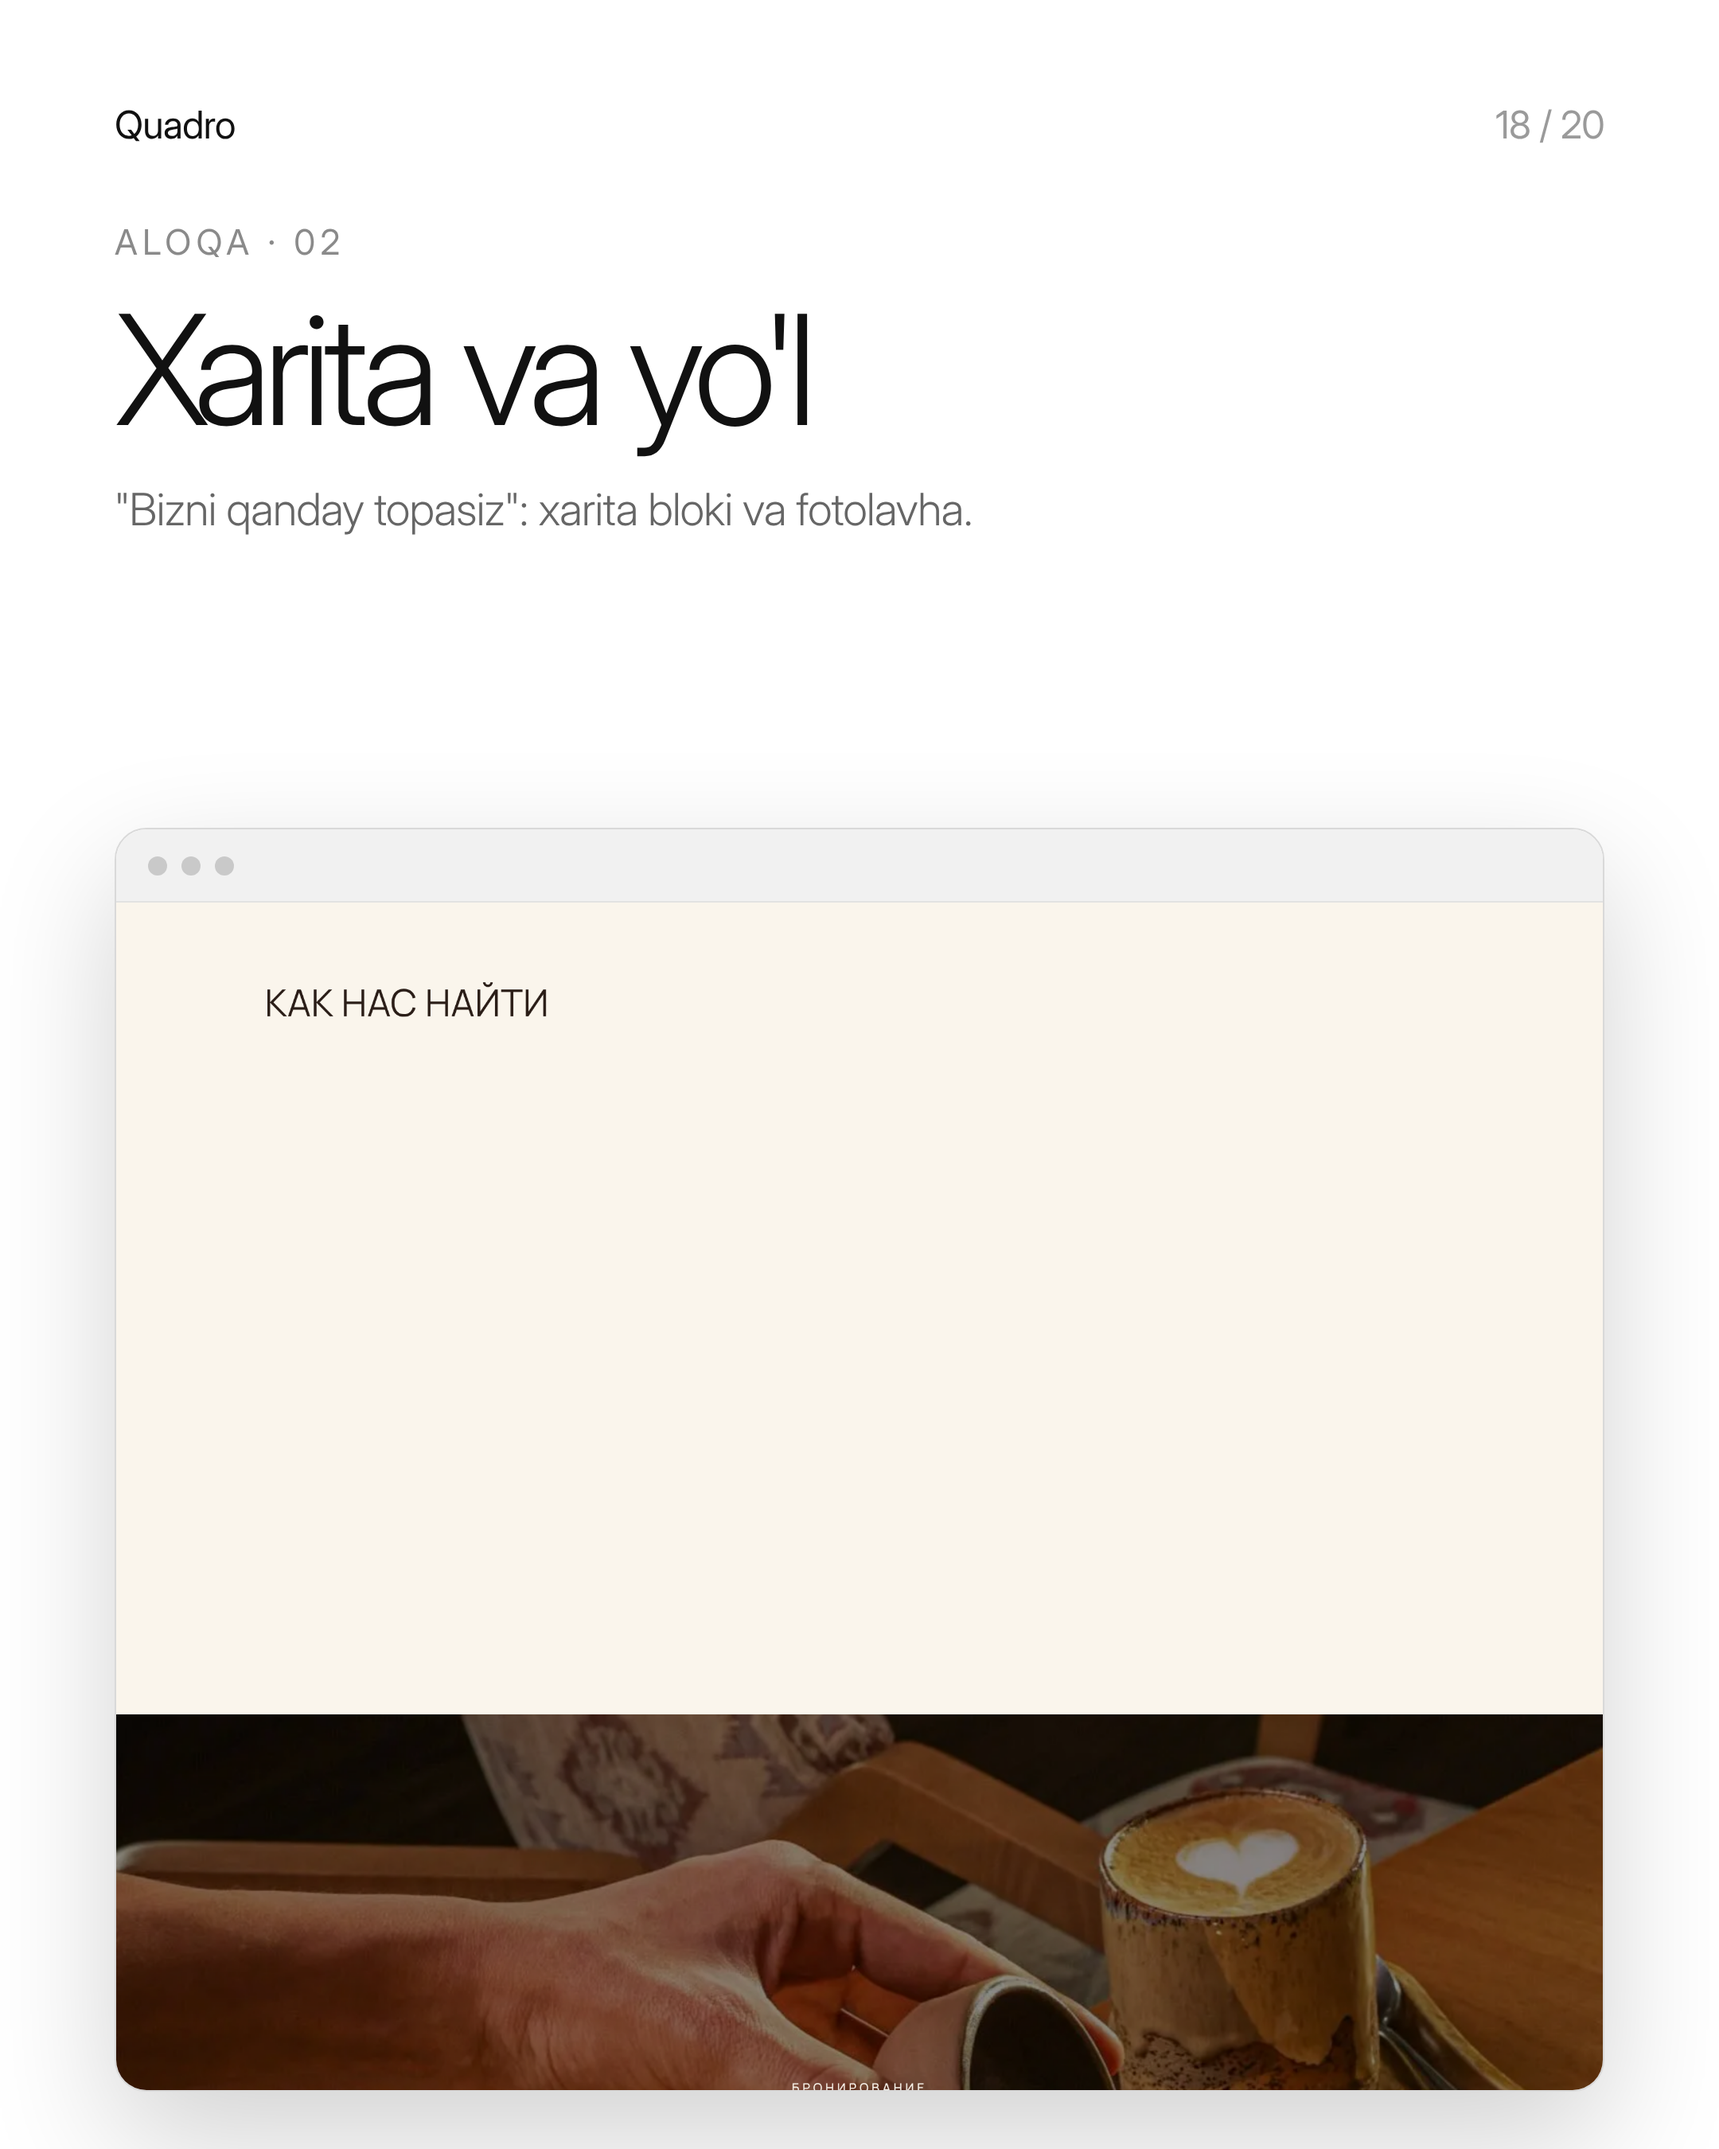
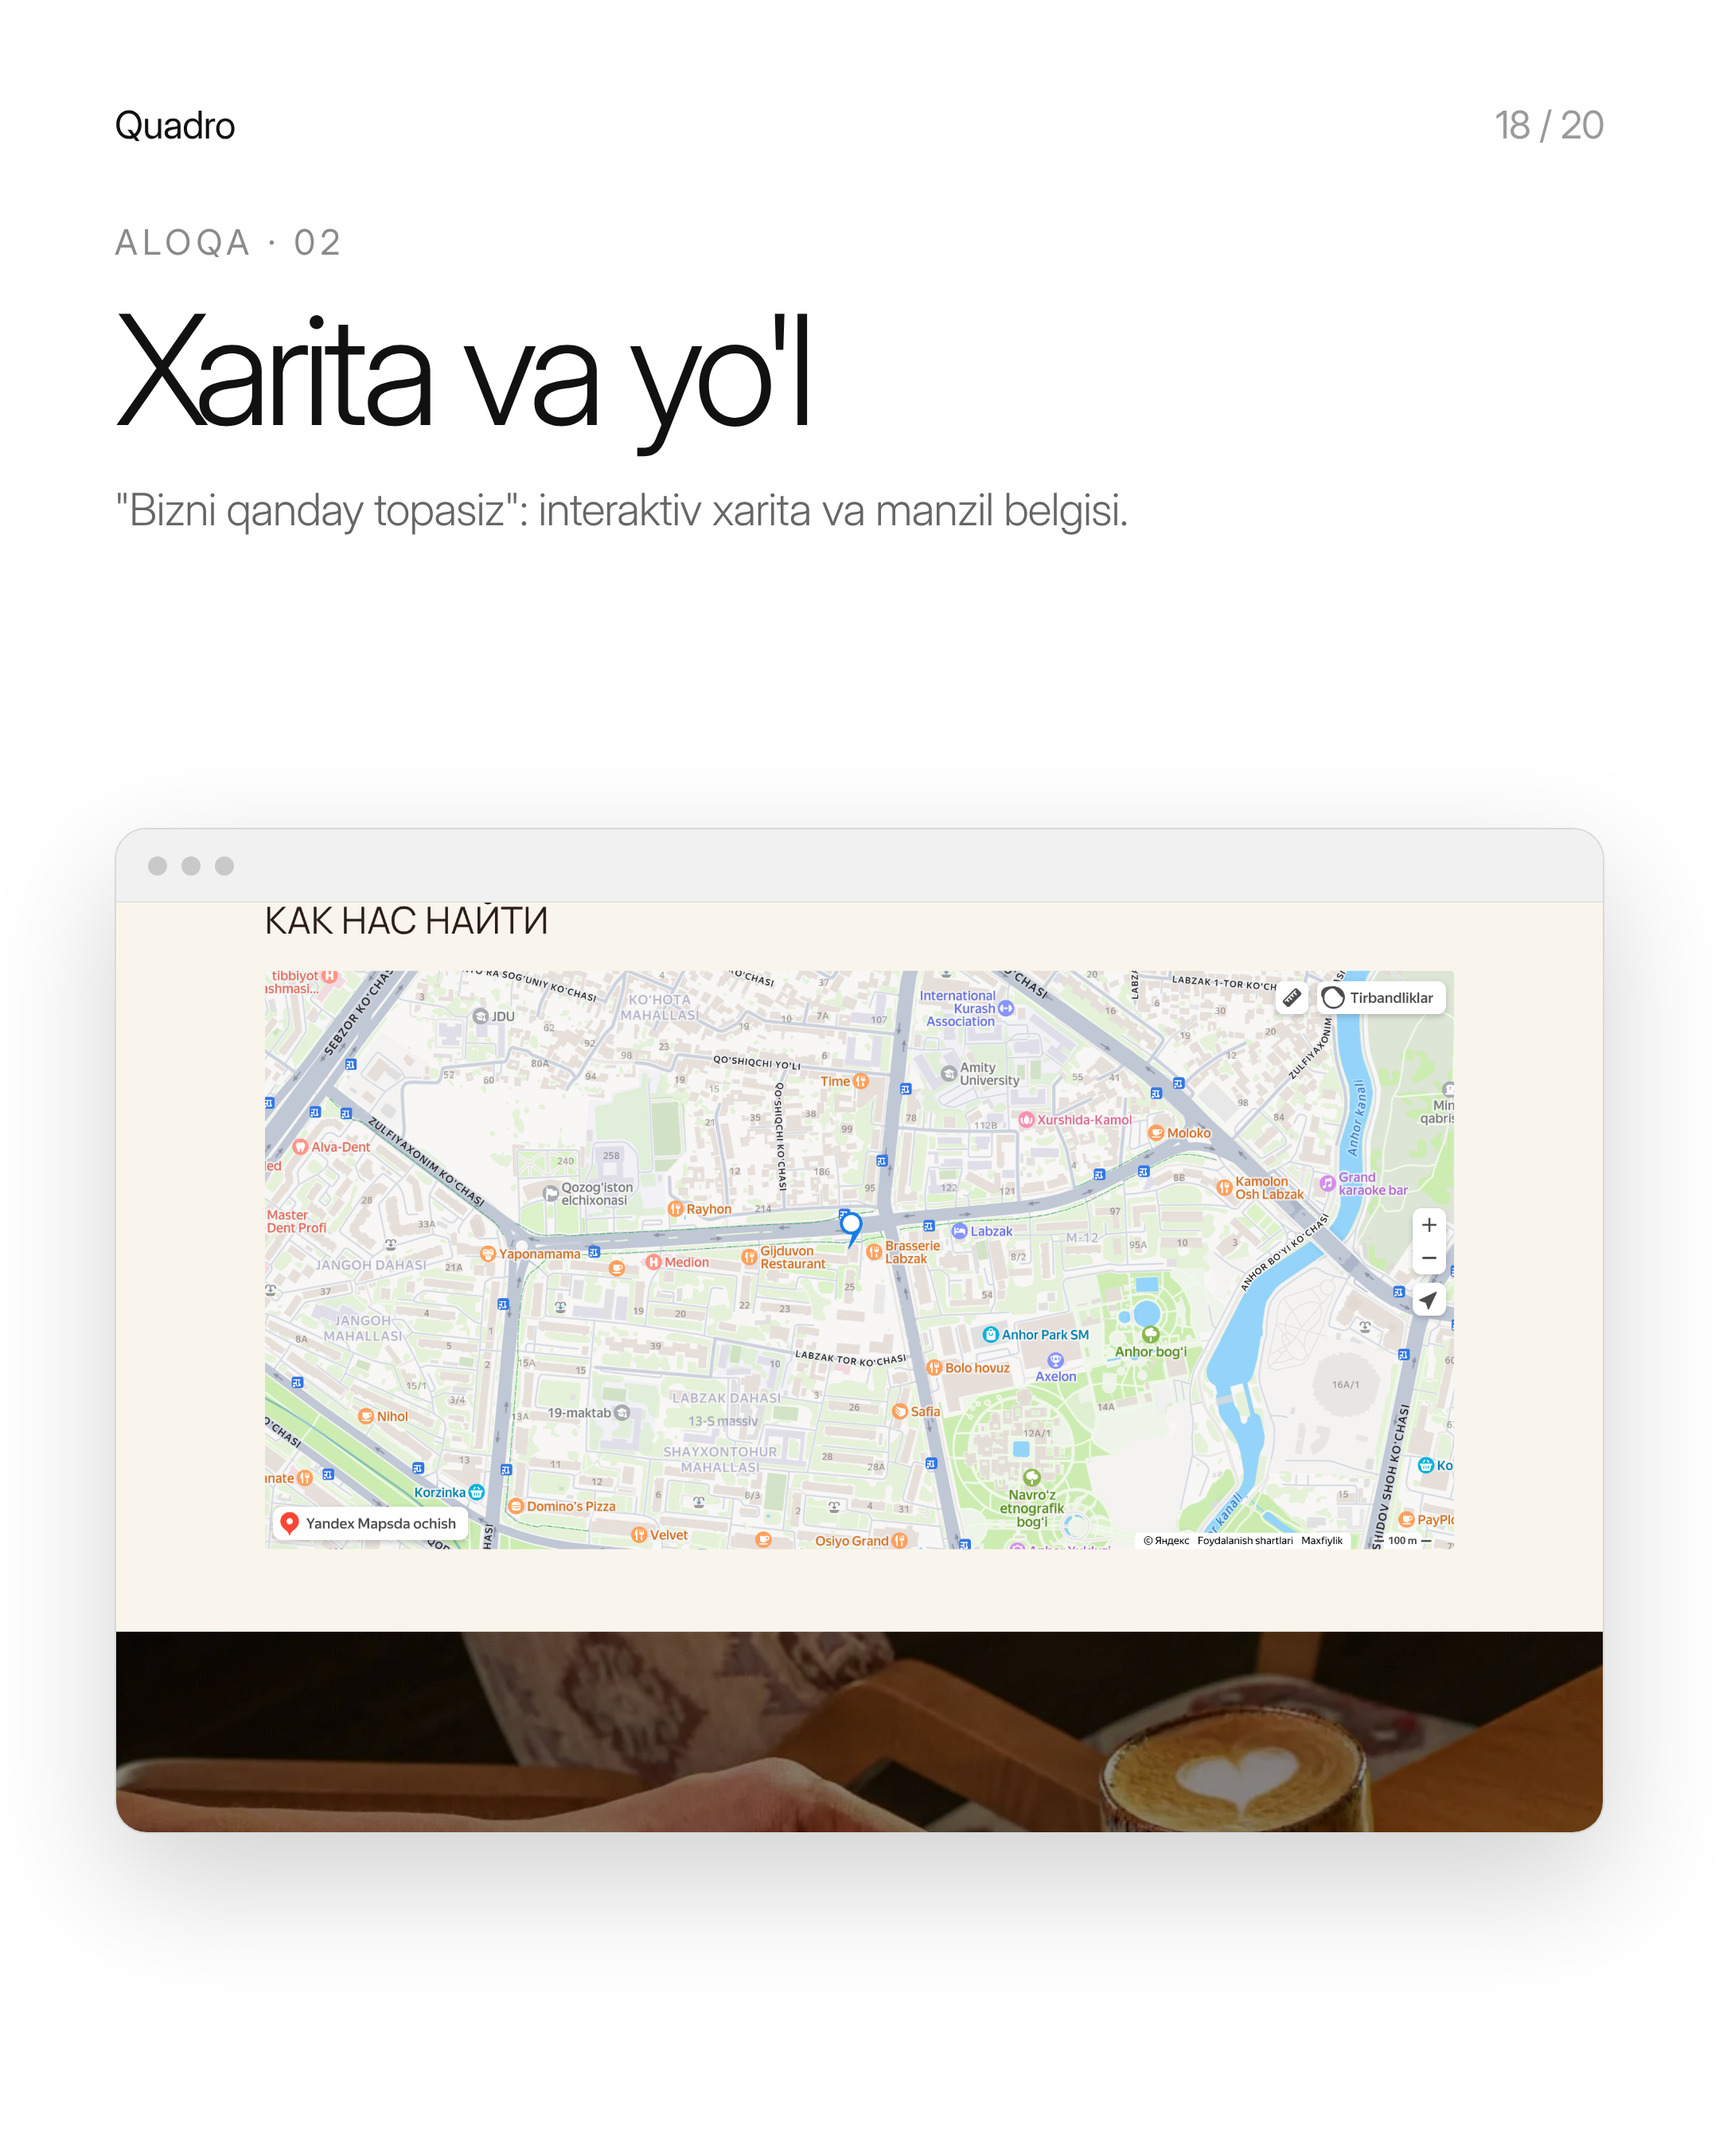
Quadro carousel: loaded Yandex map on slide 18, Direct @odex.asia on slide 20
Claude-Session: https://claude.ai/code/session_016hDDYxXRao7raJTtdDbdUH

Changed region(s): [[0.062, 0.4044, 0.9306, 0.9956], [0.3102, 0.2178, 0.6514, 0.2489]]

diff --git a/portfolio-quadro/build2.py b/portfolio-quadro/build2.py
@@ -19,11 +19,11 @@ SEC=[
 ('about-story','about',2700,2300,'Biz haqimizda · 01','Quadro tarixi','Sarlavha, matn va vertikal foto: "kitob sahifasi" uslubida.'),
 ('about-photo','about',4600,2300,'Biz haqimizda · 02','Katta fotolavha','Foto ustida manifest matni: katta kompaniyalar va oilalar uchun.'),
 ('contact-hero','contact',0,2300,'Aloqa · 01','Aloqa va manzil','Bordo blok: ish vaqti, manzil, telefon va elektron pochta.'),
-('contact-find','contact',1800,2300,'Aloqa · 02','Xarita va yo\'l','"Bizni qanday topasiz": xarita bloki va fotolavha.'),
+('contact-find','map',0,1800,'Aloqa · 02','Xarita va yo\'l','"Bizni qanday topasiz": interaktiv xarita va manzil belgisi.'),
 ]
 os.makedirs('sec',exist_ok=True)
 for sid,pg,y0,h,*_ in SEC:
-    f=Image.open(f'd-{pg}-full.png');y1=min(f.height,y0+h);f.crop((0,y0,2880,y1)).save(f'sec/{sid}.png')
+    f=Image.open('map-sec.png' if pg=='map' else f'd-{pg}-full.png');y1=min(f.height,y0+h);f.crop((0,y0,2880,y1)).save(f'sec/{sid}.png')
 CSS='''
 *{margin:0;padding:0;box-sizing:border-box}
 .s{position:relative;width:1080px;height:1350px;overflow:hidden;background:#fff;color:#111;font-family:"Inter Display","SF Pro Display",sans-serif;-webkit-font-smoothing:antialiased;letter-spacing:-.02em}
@@ -58,6 +58,6 @@ slides.append(doc(f'''<div class="tag"><span>Quadro</span><span>{N-1:02d} / {N}<
 <div class="ph" style="left:46px;top:560px;transform:rotate(-4deg)"><img src="{P}/m-menu-top.png"></div><div class="ph" style="left:390px;top:520px;z-index:3"><img src="{P}/m-home-top.png"></div><div class="ph" style="left:734px;top:560px;transform:rotate(4deg)"><img src="{P}/m-contact-top.png"></div>'''))
 # cta (black)
 slides.append(doc(f'''<div class="tag"><span>Quadro</span><span>{N:02d} / {N}</span></div>
-<div style="position:absolute;left:72px;top:330px;right:72px"><div class="lbl" style="color:#888">Sizga ham kerakmi?</div><h1 style="font-size:150px;margin-top:26px;color:#fff">Sizning biznesingizga ham shunday sayt</h1><div class="sub" style="color:#aaa;font-size:36px;margin-top:50px">Har bir bo'lim uchun alohida dizayn, mobil versiya va bron formasi.</div><div style="margin-top:60px;display:inline-block;border:2px solid #fff;border-radius:100px;padding:26px 46px;font-size:34px">@bilolalixan</div></div>''','dk'))
+<div style="position:absolute;left:72px;top:330px;right:72px"><div class="lbl" style="color:#888">Sizga ham kerakmi?</div><h1 style="font-size:150px;margin-top:26px;color:#fff">Sizning biznesingizga ham shunday sayt</h1><div class="sub" style="color:#aaa;font-size:36px;margin-top:50px">Har bir bo'lim uchun alohida dizayn, mobil versiya va bron formasi. Murojaat uchun Direct'ga yozing.</div><div style="margin-top:60px;display:inline-block;border:2px solid #fff;border-radius:100px;padding:26px 46px;font-size:38px"><span style="opacity:.6;font-size:26px;margin-right:16px">Direct</span>@odex.asia</div></div>''','dk'))
 for i,s in enumerate(slides,1):open(f'w/s{i:02d}.html','w').write(s)
 print(len(slides))
